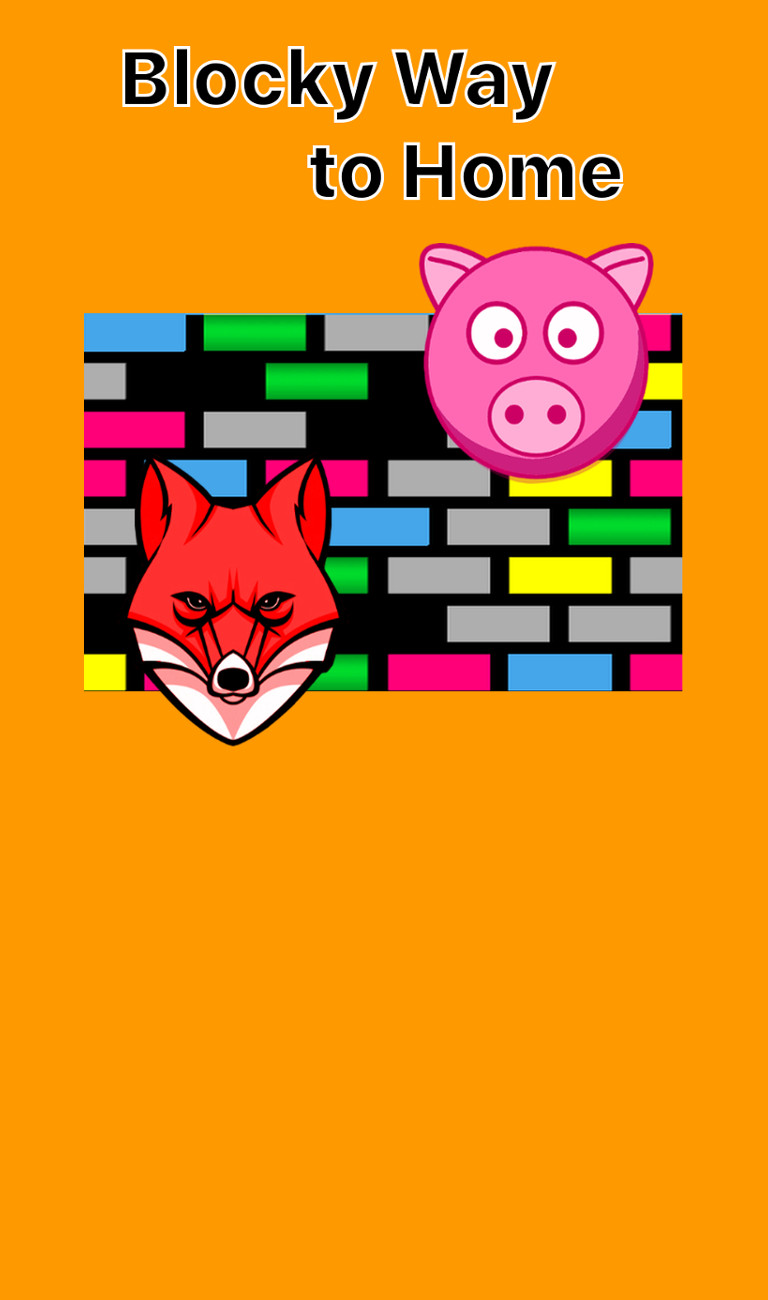
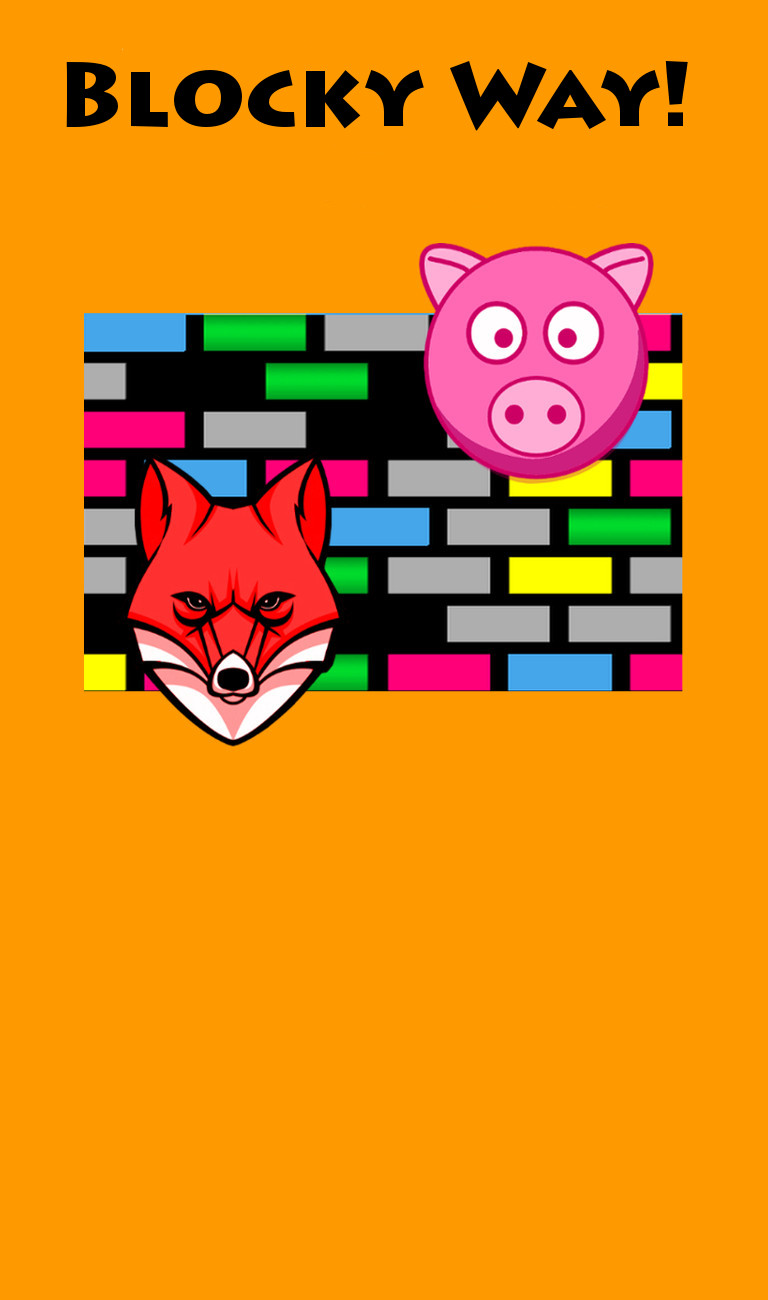
6-24-2017

Changed region(s): [[0.0625, 0.0308, 0.9062, 0.1538]]

diff --git a/index.html b/index.html
@@ -10,7 +10,7 @@
     <!--[if lt IE 9]>
     <script src="//html5shiv.googlecode.com/svn/trunk/html5.js"></script>
     <![endif]-->
-    <title>Blocky Way to Home</title>
+    <title>Blocky Way!</title>
   <style>
      
 @font-face {
@@ -36,16 +36,16 @@ div {
         <br><br><br><br><br><br><br><br><br>
         <br><br><br><br><br><br><br><br><br>		
 		<p>
-		<b>Blocky Way to Home</b> is a simple but challenging and addictive fun mobile game.
+		<b>Blocky Way!</b> is a simple but challenging and addictive fun mobile game.
 		</p>
 		<p>
-		Blocky Way to Home is a puzzle game.
+		Blocky Way! is a puzzle game.
 		</p>
 		
 		
 		<p>
-		Available for: <a href="http://itunes.apple.com/us/app/blocky-way-to-home/id1246423396?mt=8">IOS</a>
-		and <a href="http://play.google.com/store/apps/details?id=com.einal.bricks">Android</a>
+		Available for: <a href="http://itunes.apple.com/us/app/blocky-way/id1252238466?mt=8">IOS</a>
+		and <a href="http://play.google.com/store/apps/details?id=com.einal.blockyway">Android</a>
 		</p>
 		
 		<p>
@@ -58,9 +58,9 @@ div {
 
         <footer>
          <span style="padding: 0 12px">&nbsp;</span>
-         <a href="http://einal.github.io/blocky-way-to-home.privacypolicy/">Privacy Policy</a>
+         <a href="http://einal.github.io/blocky-way.privacypolicy/">Privacy Policy</a>
          <span style="padding: 0 120px">&nbsp;</span>
-         <a href="http://einal.github.io/blocky-way-to-home.terms/">Terms of Service</a>
+         <a href="http://einal.github.io/blocky-way.terms/">Terms of Service</a>
         </footer>
 
         
